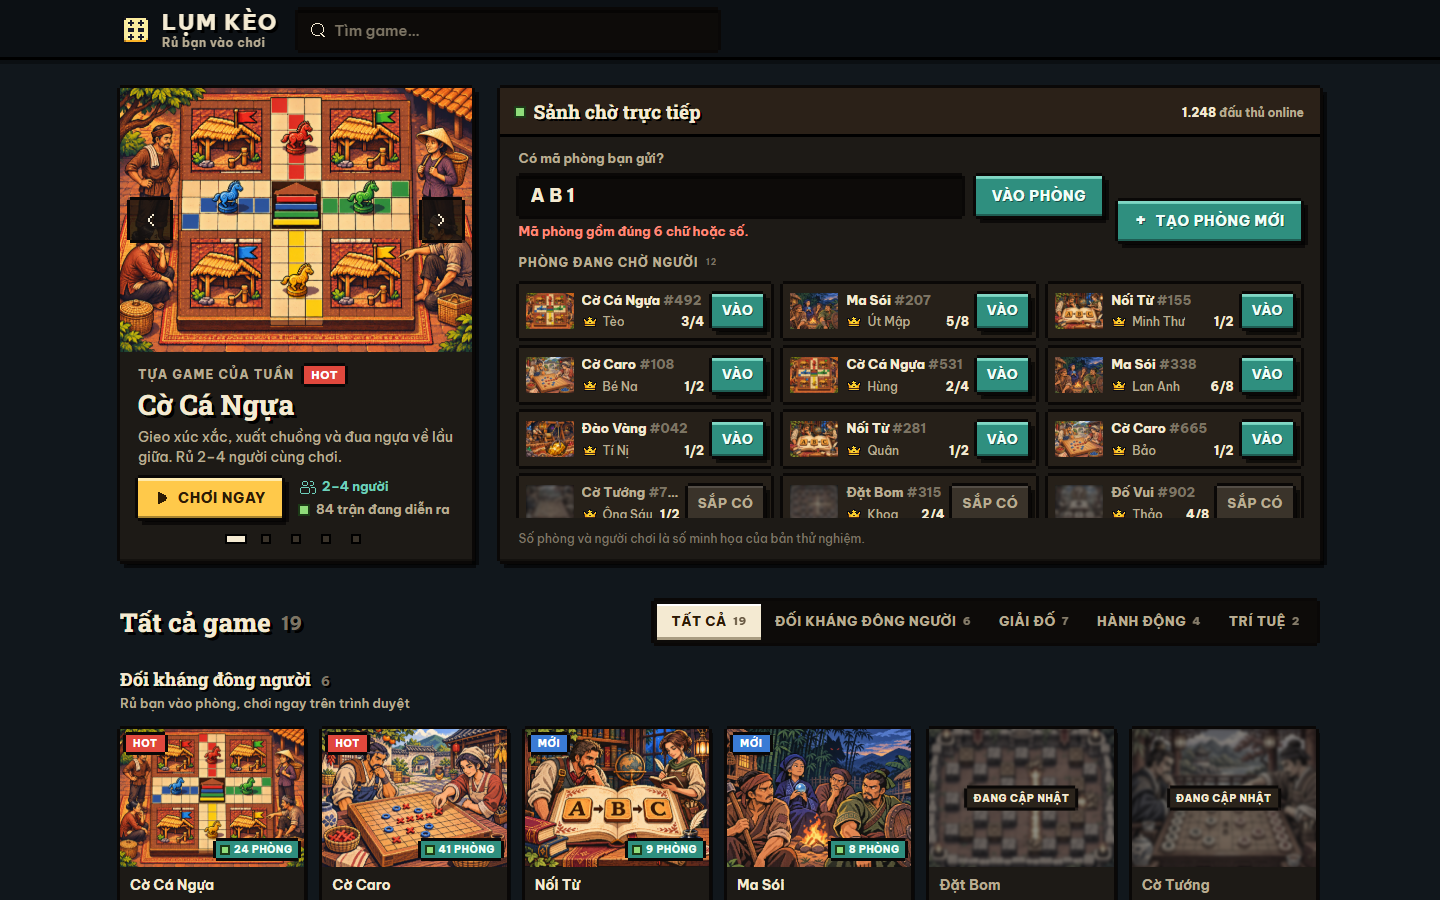
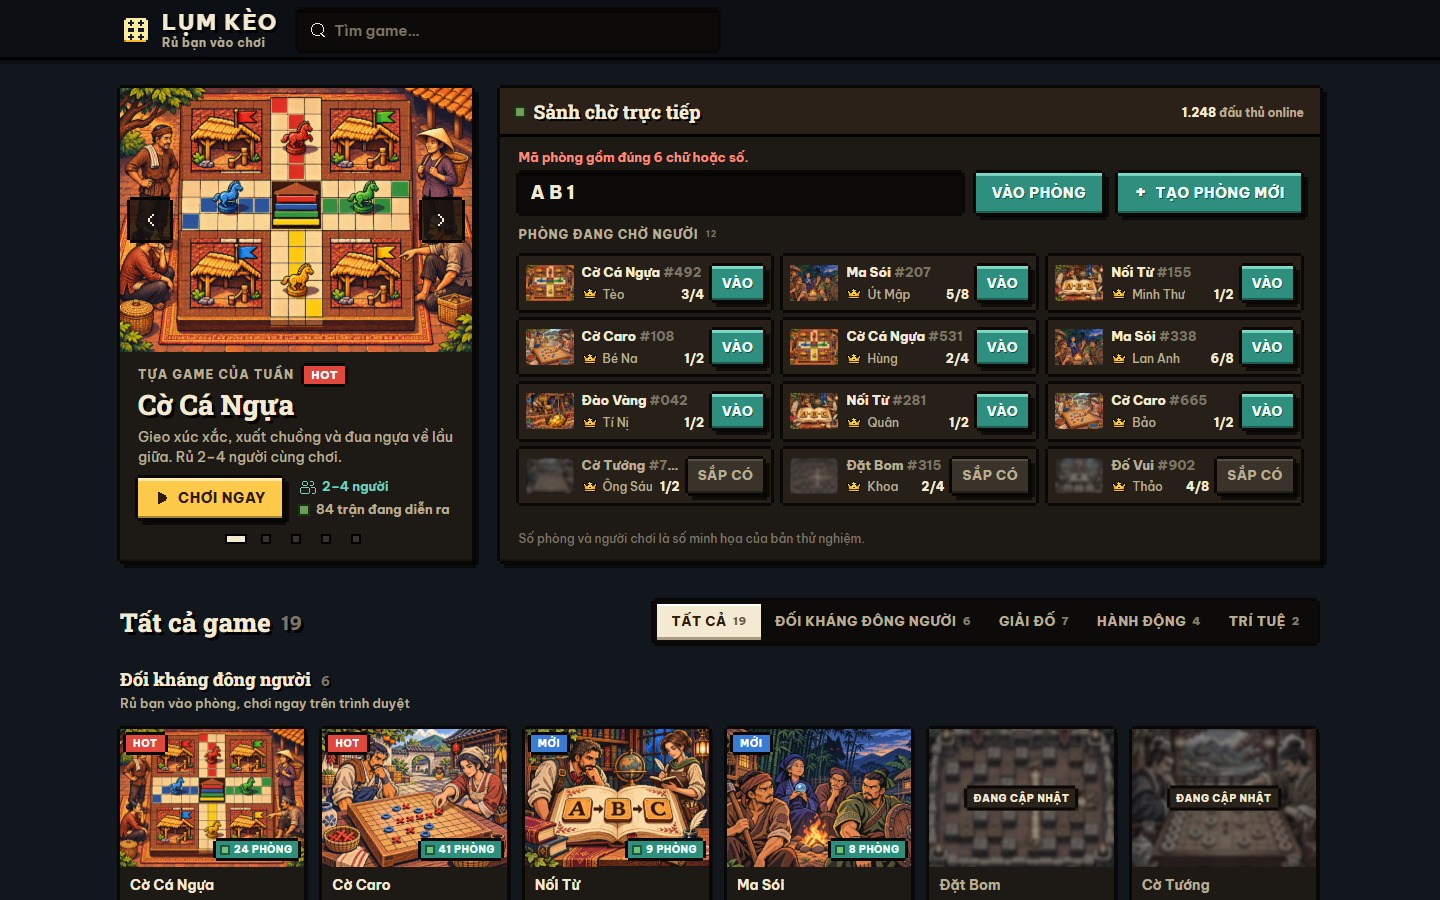
Trang chủ: dòng báo lỗi mã phòng hiện phía trên ô nhập, không đẩy lệch hàng nút
Báo lỗi nằm trong hàng nhãn cố định (thay chỗ nhãn khi có lỗi) nên hàng
ô mã + Vào phòng + Tạo phòng mới giữ nguyên vị trí. check.mjs đo vị trí
hàng nút trước/sau khi báo lỗi ở 1440/1100/820/390/360.

Changed region(s): [[0.3438, 0.1867, 0.9062, 0.5911], [0.3438, 0.1556, 0.5312, 0.2178]]

diff --git a/prototype/homepage/styles.css b/prototype/homepage/styles.css
@@ -163,11 +163,15 @@ input.field { border: 0; border-radius: 0; outline: none; min-width: 0; font: 60
 .lobby__sub { flex: none; font: 800 12px/1 var(--font-body); letter-spacing: .08em; text-transform: uppercase; color: var(--px-soft); }
 .lobby__note { margin: 0; padding: 0 16px 0 19px; font-size: 12px; color: var(--px-dim); }
 
-.pin__label { display: block; margin-bottom: 8px; font-size: 13px; font-weight: 700; color: var(--px-soft); }
+/* Dòng nhãn và dòng báo lỗi dùng chung 1 hàng cố định phía trên ô nhập:
+   báo lỗi hiện thay chỗ nhãn, không đẩy hàng "ô mã + Vào phòng + Tạo phòng mới" xuống */
+.pin__head { position: relative; height: 16px; margin-bottom: 8px; }
+.pin__label { display: block; font-size: 13px; font-weight: 700; line-height: 16px; color: var(--px-soft); white-space: nowrap; overflow: hidden; text-overflow: ellipsis; }
 .pin__row { display: flex; gap: 14px; }
 .pin__input { flex: 1; min-width: 0; font: 800 18px var(--font-body) !important; letter-spacing: .25em; text-transform: uppercase; }
-.pin__error { min-height: 1em; margin: 6px 0 0; font-size: 13px; font-weight: 700; color: #ff8a7a; }
+.pin__error { position: absolute; inset: 0; margin: 0; font-size: 13px; font-weight: 700; line-height: 16px; color: #ff8a7a; white-space: nowrap; overflow: hidden; text-overflow: ellipsis; }
 .pin__error:empty { display: none; }
+.pin:has(.pin__error:not(:empty)) .pin__label { visibility: hidden; }
 
 .rooms { position: relative; list-style: none; margin: 0; padding: 3px 19px 6px; display: grid; grid-template-columns: repeat(3, minmax(0, 1fr)); gap: 12px 14px;
   align-content: start; flex: 1; min-height: 0; overflow-y: auto; scrollbar-width: thin; scrollbar-color: #4a4034 transparent; }

diff --git a/prototype/homepage/index.html b/prototype/homepage/index.html
@@ -54,13 +54,15 @@
 
         <div class="lobby__bar">
           <form class="pin" id="roomInline" novalidate data-name="room-inline">
-            <label class="pin__label" for="roomInlineCode">Có mã phòng bạn gửi?</label>
+            <div class="pin__head">
+              <label class="pin__label" for="roomInlineCode">Có mã phòng bạn gửi?</label>
+              <p class="pin__error" id="roomInlineError" role="alert"></p>
+            </div>
             <div class="pin__row">
               <input class="field pin__input" id="roomInlineCode" autocomplete="off" spellcheck="false" autocapitalize="characters"
-                     maxlength="6" placeholder="ABC789" aria-describedby="roomInlineError" />
+                     maxlength="6" placeholder="ABC789" aria-label="Mã phòng" aria-describedby="roomInlineError" />
               <button class="btn btn--teal" type="submit">Vào phòng</button>
             </div>
-            <p class="pin__error" id="roomInlineError" role="alert"></p>
           </form>
           <a class="btn btn--teal lobby__create" href="#duel" id="createRoom"><span class="btn__plus" aria-hidden="true">+</span>Tạo phòng mới</a>
         </div>
